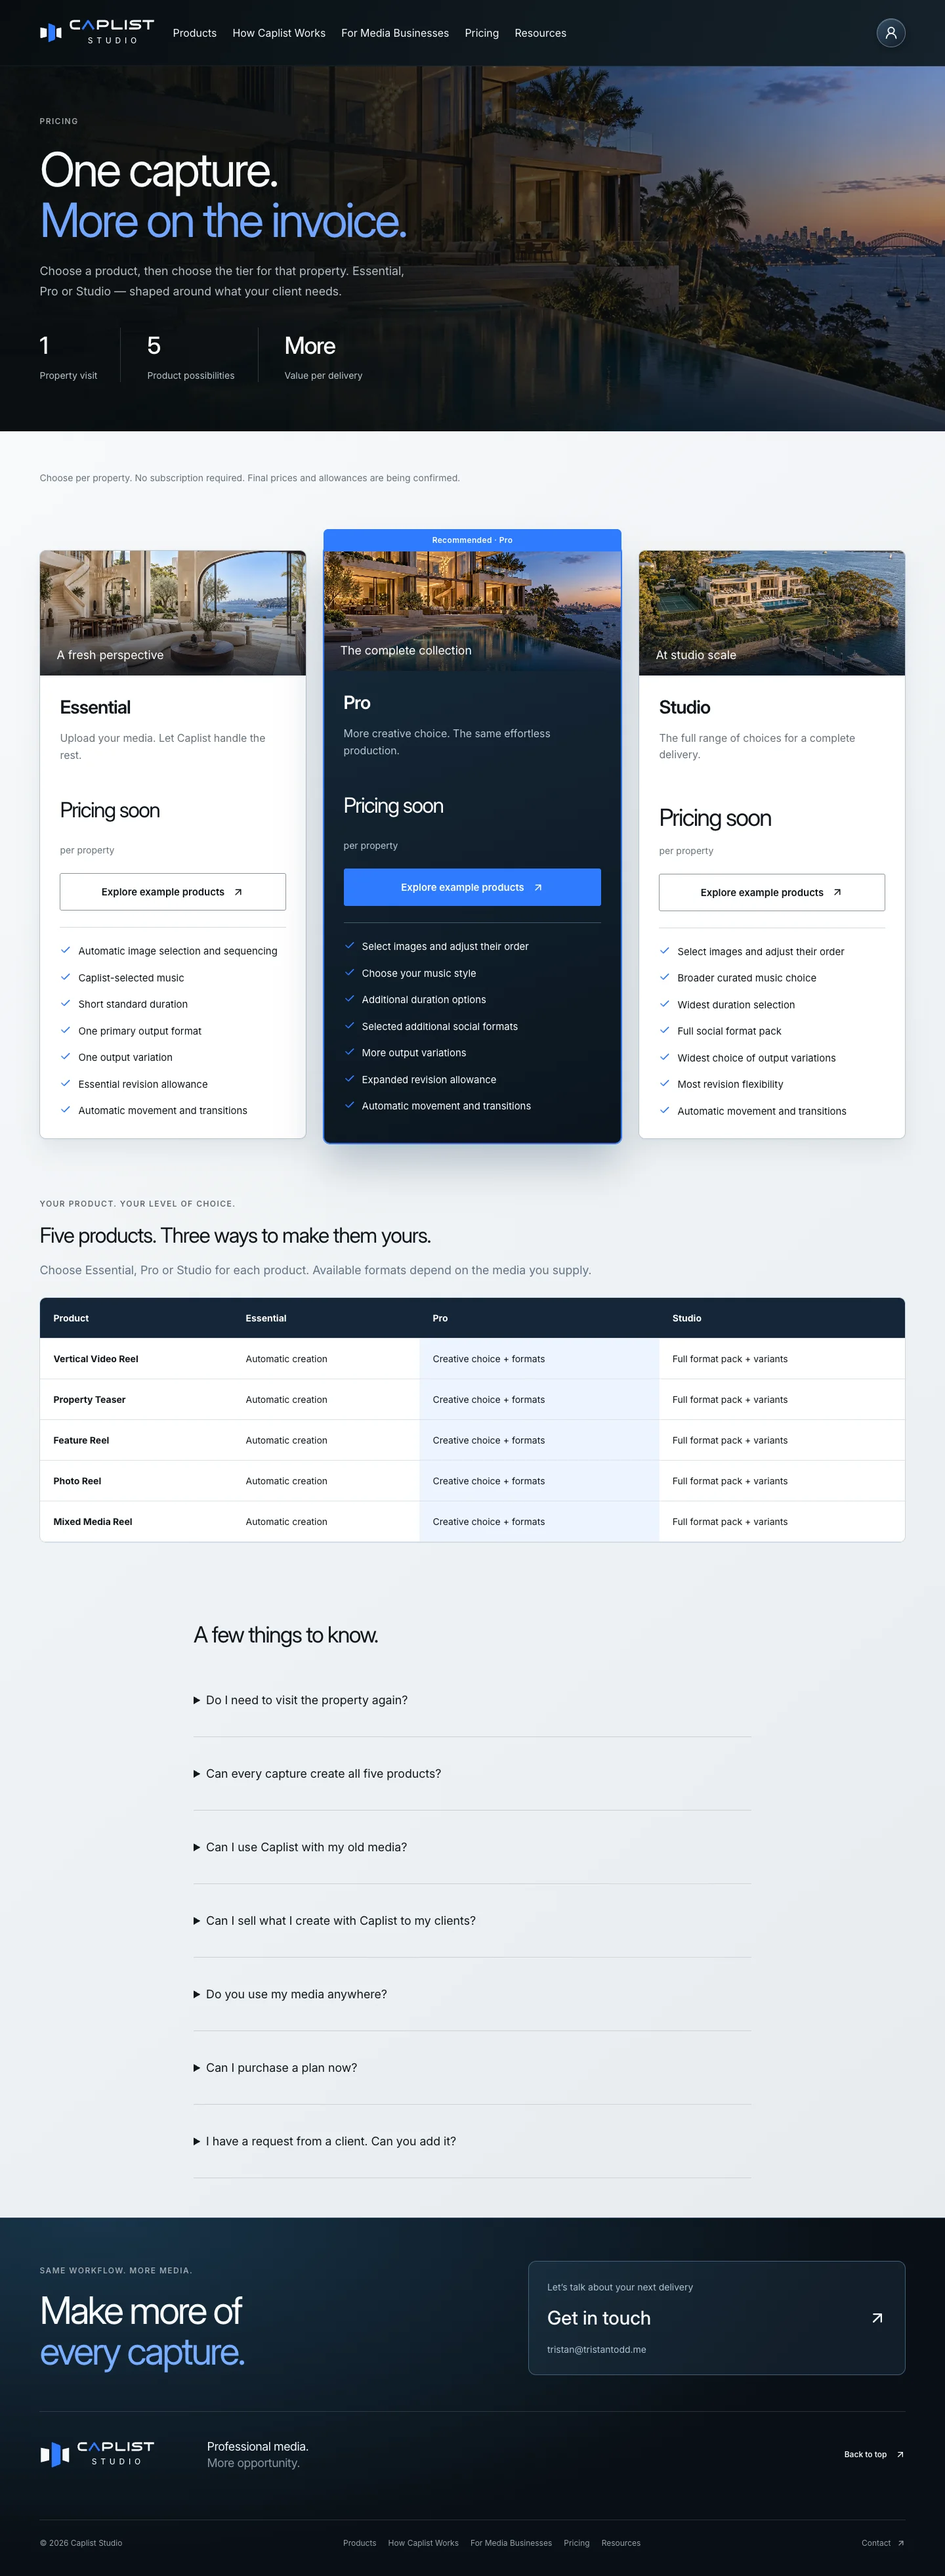
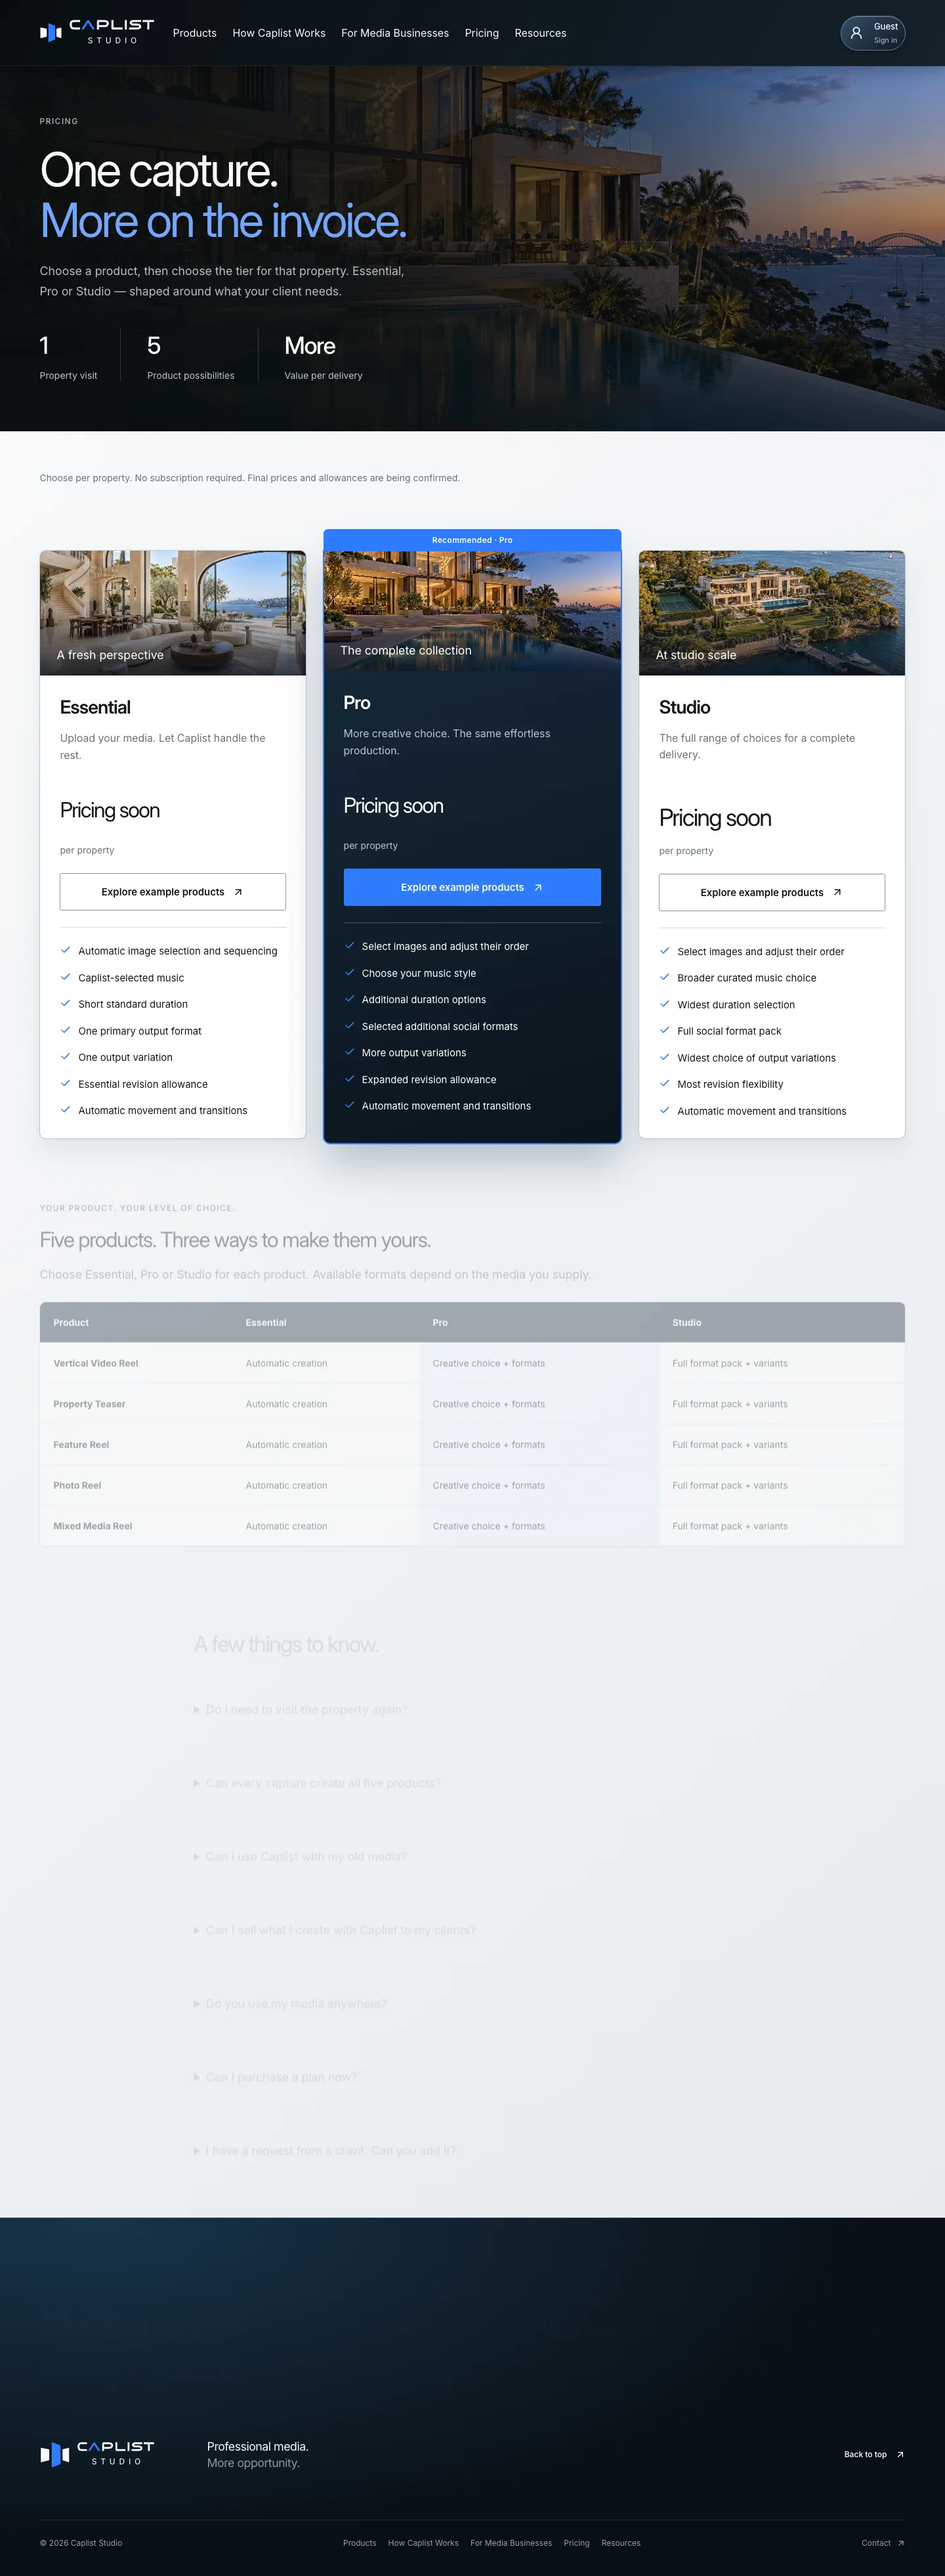
feat(marketing): add site motion and varied slower scene treatments

diff --git a/app/globals.css b/app/globals.css
@@ -5315,3 +5315,31 @@ html {scroll-padding-top:110px;}
 @keyframes showcase-pull {0%{transform:scale(1.28)}33%,100%{transform:scale(1.02)}}
 @keyframes showcase-flyover {0%{transform:scale(1.32) translate(7%,5%)}33%,100%{transform:scale(1.12) translate(-4%,-3%)}}
 @media(max-width:767px){html{scroll-padding-top:95px;}.hero-media .hero-property{position:relative;top:auto;left:auto;transform:none;width:100%;height:auto;aspect-ratio:16 / 9;margin-bottom:16px;}.hero-media{height:auto;min-height:0;}.hero-property .vertical-view{display:block;}}
+
+/* Slower scene-specific motion and restrained site-wide interaction. */
+.motion-scene,.motion-scene .photo,.motion-progress i {animation-duration:24s;}
+.motion-scene[data-movement="pan"] .photo {animation-name:showcase-pan;}
+.motion-scene[data-movement="push"] .photo {animation-name:showcase-push;}
+.motion-scene[data-movement="crane"] .photo {animation-name:showcase-crane;}
+.motion-scene[data-movement="pull"] .photo {animation-name:showcase-pull;}
+.motion-scene[data-movement="flyover"] .photo {animation-name:showcase-flyover;}
+.profile-signin {width:auto;height:auto;display:flex;align-items:center;gap:10px;padding:6px 10px 6px 6px;border-radius:30px;text-align:left;}
+.profile-avatar {display:grid;place-items:center;width:34px;height:34px;}
+.profile-label {display:flex;flex-direction:column;gap:3px;white-space:nowrap;}
+.profile-label strong {font-size:13px;font-weight:500;}
+.profile-label > span {font-size:11px;color:#b0c7dc;}
+.reading-progress {position:fixed;inset:0 0 auto;height:2px;z-index:100;pointer-events:none;}
+.reading-progress > span {display:block;width:100%;height:100%;background:#62a2ff;transform:scaleX(var(--reading-progress,0));transform-origin:left;box-shadow:0 0 9px #2f7bff;}
+.site-header {transition:box-shadow .3s,background-color .3s;}
+.page-scrolled .site-header {background:#0b1520f2;backdrop-filter:blur(18px);box-shadow:0 8px 25px #0005;}
+.site-reveal {transition:opacity .65s ease var(--reveal-delay,0ms),translate .65s cubic-bezier(.2,.7,.2,1) var(--reveal-delay,0ms);}
+.site-reveal.reveal-pending {opacity:0;translate:0 22px;}
+.button,.profile-signin,.footer-contact,.example-open,.reference-preview {transition:translate .22s,box-shadow .22s,border-color .22s,background-color .22s;}
+.desktop-nav a {position:relative;}
+.desktop-nav a:after {content:"";position:absolute;bottom:-8px;left:0;width:100%;height:1px;background:#68a6ff;transform:scaleX(0);transform-origin:left;transition:transform .22s;}
+@media(hover:hover){.desktop-nav a:hover:after{transform:scaleX(1);}.button:hover,.example-open:hover,.reference-preview:hover{translate:0 -2px;box-shadow:0 8px 23px #2f7bff30;}.profile-signin:hover,.footer-contact:hover{border-color:#83b5ff;box-shadow:0 10px 35px #2f7bff20;}.plan:hover{box-shadow:0 24px 60px #193c6130;}.media-input-labels > span:hover{border-color:#8abbff;}}
+.hero-copy {animation:page-arrive .7s ease both;}
+.inner-hero h1 {animation:page-arrive .7s ease both;}
+@keyframes page-arrive {from{opacity:0;translate:0 12px;}to{opacity:1;translate:0 0;}}
+@media(max-width:767px){.header-actions .profile-signin{display:flex;}.profile-signin{gap:3px;padding-right:9px;}.profile-label strong{font-size:12px;}.profile-label > span{font-size:10px;}.profile-avatar{width:26px;height:30px;}}
+@media(prefers-reduced-motion:reduce){.site-reveal,.site-reveal.reveal-pending{opacity:1;translate:none;transition:none;}.hero-copy,.inner-hero h1{animation:none;}.button,.profile-signin,.footer-contact,.example-open,.reference-preview,.site-header,.desktop-nav a:after{transition:none;}.reading-progress{display:none;}}

diff --git a/components/editorial/SiteEffects.tsx b/components/editorial/SiteEffects.tsx
@@ -1,0 +1,47 @@
+"use client";
+import { useEffect } from "react";
+export function SiteEffects() {
+  useEffect(() => {
+    const preference = matchMedia("(prefers-reduced-motion: reduce)");
+    const targets = Array.from(document.querySelectorAll<HTMLElement>(".opportunity-story,.delivery-diagram,.how-copy,.media-exploded,.catalogue-reference-heading,.standards-story,.professional-console,.delivery-checks,.close-content,.example-card,.plan,.tier-comparison,.pricing-faq,.footer-invitation,.feature-strip > span"));
+    let observer: IntersectionObserver | undefined;
+    let frame = 0;
+    const update = () => {
+      frame = 0;
+      const range = document.documentElement.scrollHeight - innerHeight;
+      document.documentElement.style.setProperty("--reading-progress", String(range > 0 ? scrollY / range : 0));
+      document.documentElement.classList.toggle("page-scrolled", scrollY > 24);
+    };
+    const scroll = () => { if (!frame) frame = requestAnimationFrame(update); };
+    const setup = () => {
+      observer?.disconnect();
+      targets.forEach(el => el.classList.remove("reveal-pending"));
+      if (preference.matches) return;
+      observer = new IntersectionObserver(entries => entries.forEach(entry => {
+        if (entry.isIntersecting) {
+          entry.target.classList.remove("reveal-pending");
+          observer?.unobserve(entry.target);
+        }
+      }), { threshold: 0.08 });
+      targets.forEach((el, i) => {
+        el.classList.add("site-reveal");
+        el.style.setProperty("--reveal-delay", `${(i % 3) * 55}ms`);
+        if (el.getBoundingClientRect().top > innerHeight) {
+          el.classList.add("reveal-pending");
+          observer?.observe(el);
+        }
+      });
+    };
+    setup(); update();
+    preference.addEventListener("change", setup);
+    addEventListener("scroll", scroll, { passive: true });
+    addEventListener("resize", scroll);
+    return () => {
+      observer?.disconnect(); cancelAnimationFrame(frame);
+      preference.removeEventListener("change", setup);
+      removeEventListener("scroll", scroll); removeEventListener("resize", scroll);
+      targets.forEach(el => el.classList.remove("reveal-pending", "site-reveal"));
+    };
+  }, []);
+  return <div className="reading-progress" aria-hidden="true"><span /></div>;
+}

diff --git a/components/editorial/MotionPreview.tsx b/components/editorial/MotionPreview.tsx
@@ -33,7 +33,6 @@ export function MotionPreview({ product }: { product: Product }) {
     <div
       ref={ref}
       className={`motion-preview ${product.id === "mixed-media" ? "drone-preview" : ""}`}
-      data-movement={({"vertical-reel":"pan", "property-teaser":"push", "feature-reel":"crane", "photo-reel":"pull", "mixed-media":"flyover"})[product.id]}
       data-paused={paused || !visible}
       aria-label={`${product.name} animated example`}
     >
@@ -41,7 +40,8 @@ export function MotionPreview({ product }: { product: Product }) {
         <div
           className="motion-scene"
           key={media}
-          style={{ animationDelay: `${i * 4}s` }}
+          data-movement={["pan", "push", "crane", "pull", "flyover"][(Number(product.number) - 1 + i) % 5]}
+          style={{ animationDelay: `${i * 8}s` }}
         >
           <Photo media={media} sizes="(max-width:767px) 90vw, 48vw" />
         </div>

diff --git a/app/layout.tsx b/app/layout.tsx
@@ -1,6 +1,7 @@
 import type { Metadata, Viewport } from "next";
 import localFont from "next/font/local";
 import "./globals.css";
+import { SiteEffects } from "@/components/editorial/SiteEffects";
 
 const inter = localFont({
   src: "../public/fonts/inter-variable.woff2",
@@ -29,7 +30,7 @@ export default function RootLayout({
 }: Readonly<{ children: React.ReactNode }>) {
   return (
     <html lang="en">
-      <body className={inter.variable}>{children}</body>
+      <body className={inter.variable}><SiteEffects />{children}</body>
     </html>
   );
 }

diff --git a/components/editorial/SiteHeader.tsx b/components/editorial/SiteHeader.tsx
@@ -37,8 +37,8 @@ export function SiteHeader() {
         </nav>
         <div className="header-actions">
           <PreviewButton notice="login" className="profile-signin">
-            <UserRound size={22} />
-            <span className="sr-only">Sign in</span>
+            <span className="profile-avatar"><UserRound size={22} /></span>
+            <span className="profile-label"><strong>Guest</strong><span>Sign in</span></span>
           </PreviewButton>
         </div>
         <details ref={menu} className="mobile-menu">

diff --git a/docs/PASS_ONE_REVIEW.md b/docs/PASS_ONE_REVIEW.md
@@ -113,3 +113,9 @@ Review layout, type, imagery, copy hierarchy, composition and colour balance now
 - Sticky navigation verified at mobile and desktop sizes.
 - Examples use distinct pan, push-in, crane-style rise, pull-back and diagonal flyover-style transforms; each scene lasts four seconds (12-second loop). These are 2D camera-style treatments of still photographs.
 - Production build passed. Browser checks at 390, 1440 and 1932px verified ratios, sticky header, no horizontal overflow and no inline catalogue animations. All five example motion names were verified as distinct.
+
+## Rotating scene motion and website effects
+- Preview timing doubled from 12 to 24 seconds per loop: eight seconds per scene, halving camera movement speed. Each scene in a product uses a distinct move, cycling through pan, push, crane-style rise, pull and flyover-style movement.
+- Added one-time below-fold scroll reveals, page entrance, reading progress, hover and navigation underline effects, and scrolled-header translucency. Homepage catalogue photographs remain static.
+- Guest / Sign in now accompanies the profile icon; no authenticated identity is simulated.
+- Build and 28 responsive route checks pass. Browser verification confirms three unique motions per product, 24-second timing, sign-in dialog, scroll reveals and reduced-motion behaviour.
